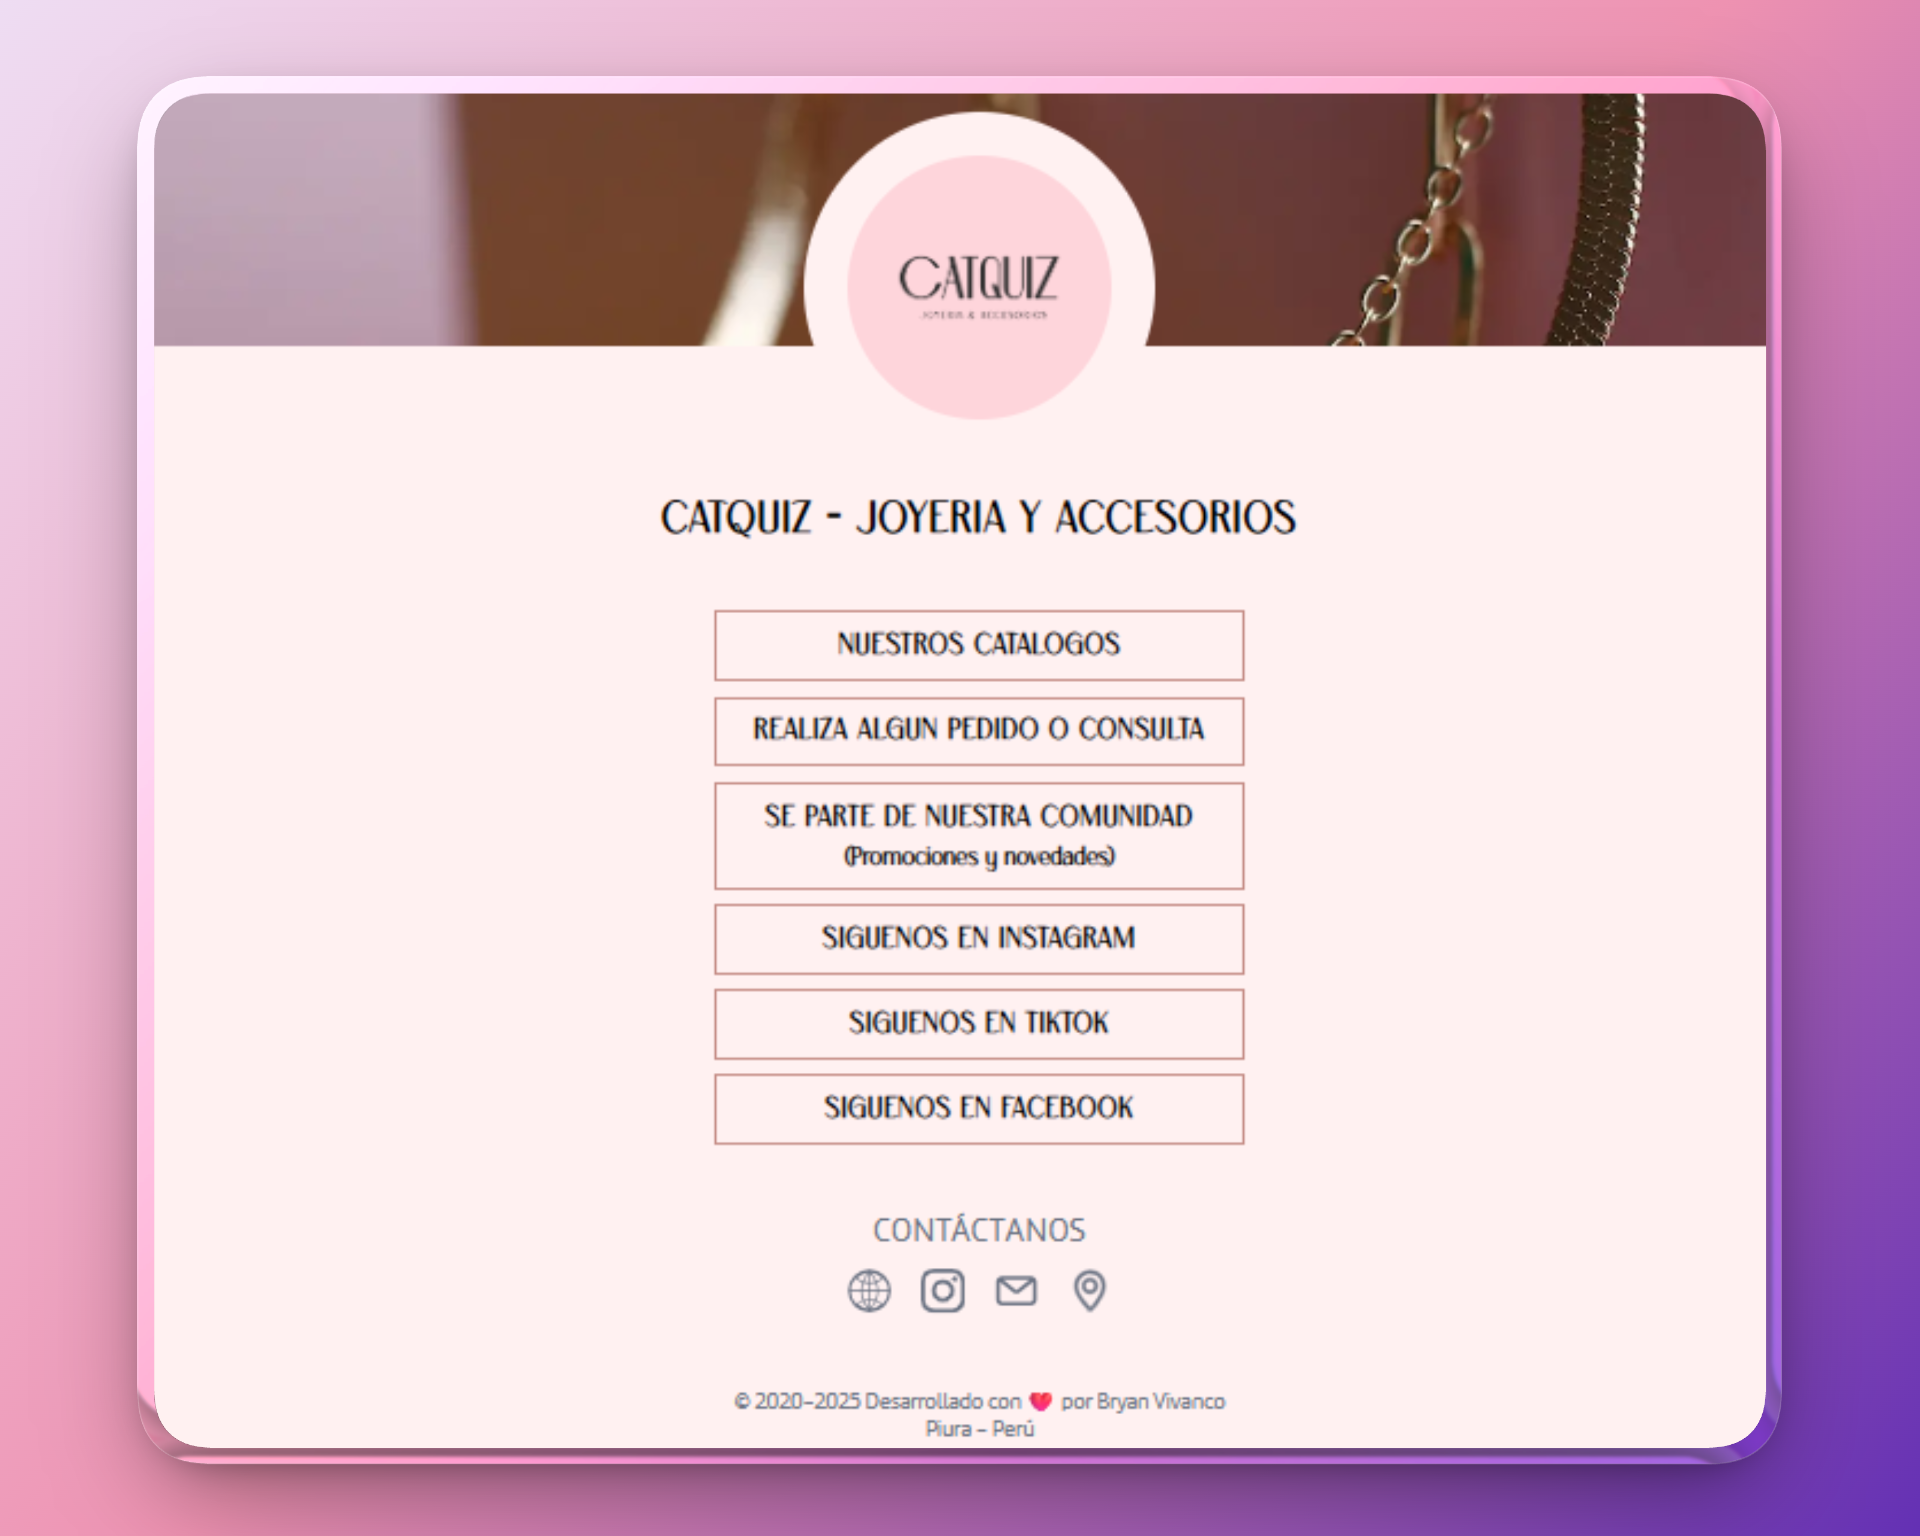
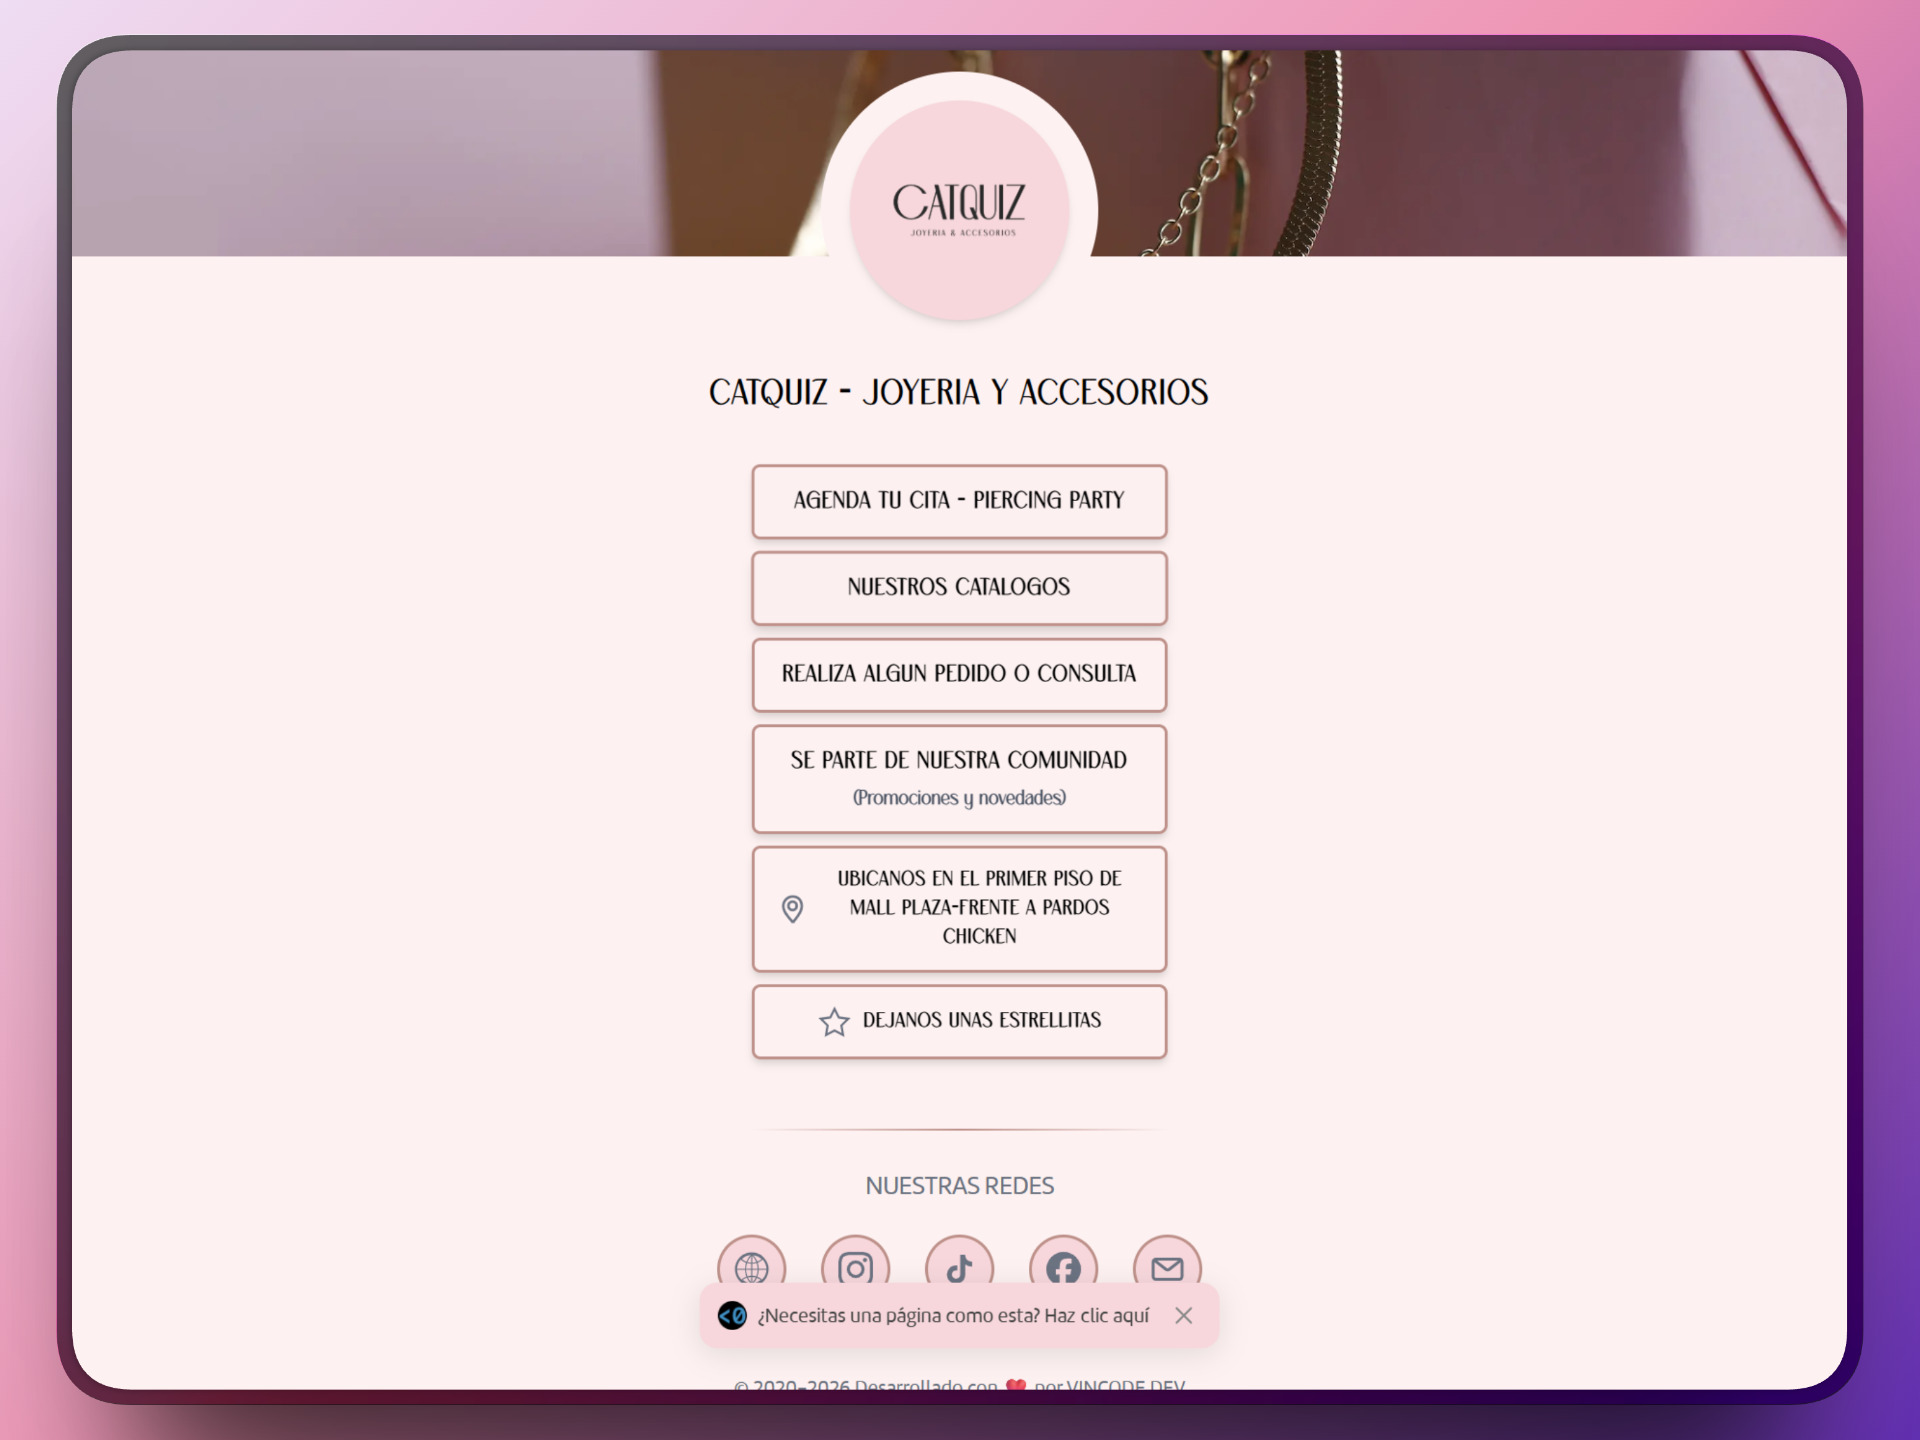
mejora de proyectos presentados

diff --git a/src/CONSTANTS.ts b/src/CONSTANTS.ts
@@ -47,7 +47,7 @@ export const navbar_items = [
 // PROYECTOS
 export const projects = [
   {
-    title: 'Portfolio',
+    title: 'Portfolio Profesional',
     description: 'Un portfolio que no solo muestra proyectos, sino que cuenta una historia profesional. Diseño interactivo y responsive que captura la atención de reclutadores y clientes, optimizado para aparecer en las primeras búsquedas de Google.',
     category: 'Web',
     img: '/portfolio-web.webp',
@@ -77,6 +77,15 @@ export const projects = [
     img: '/catquiz-digital-card.webp',
     imgGallery: ['catquiz-digital-card'],
     url: 'https://card.catquiz.pe',
+    goToWeb: true
+  },
+  {
+    title: 'Página de reservas Demo',
+    description: 'Reservas en línea para tu negocio. Gestiona citas, horarios y disponibilidad de manera simple y eficiente. Una solución que optimiza tu tiempo y mejora la experiencia de tus clientes.',
+    category: 'Web',
+    img: '/reservas-img2.webp',
+    imgGallery: ['reservas-img1', 'reservas-img2'],
+    url: 'https://vin-book-template.vercel.app/',
     goToWeb: true
   },
   {
